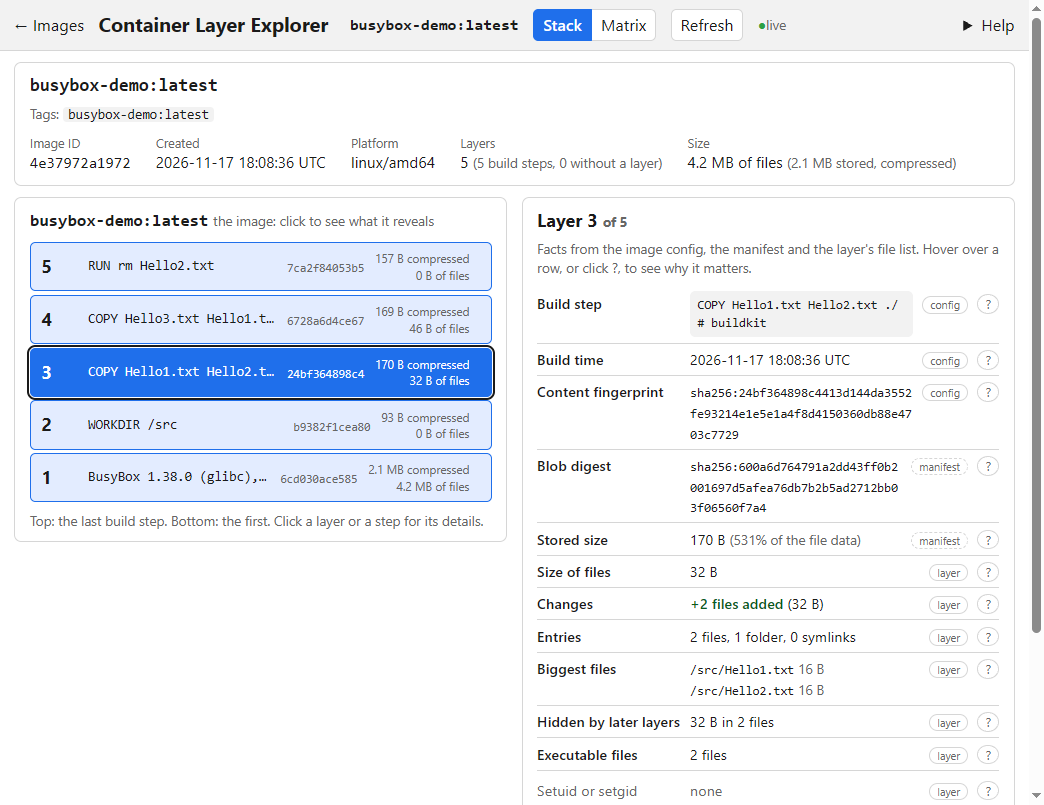
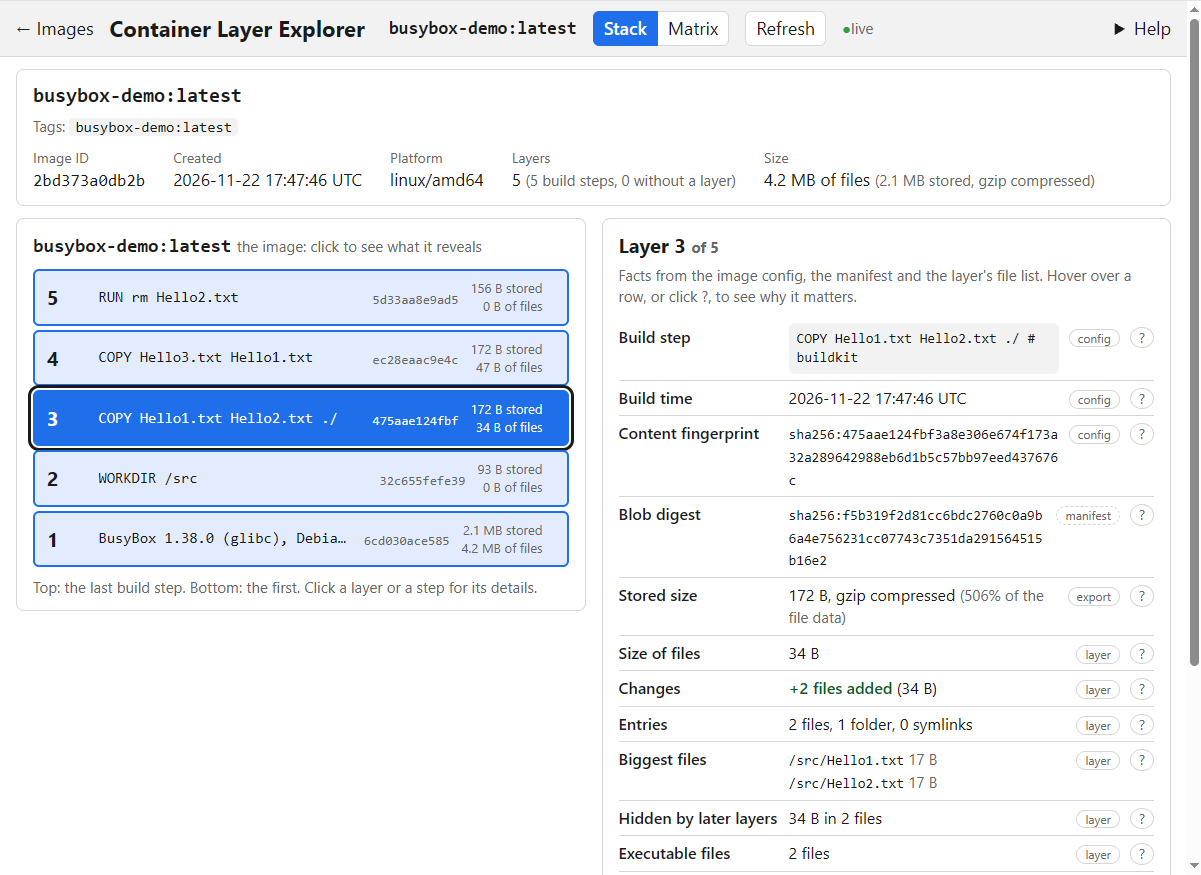
Updates and Refactorings

Changed region(s): [[0.0, 0.0, 1.0, 1.0]]

diff --git a/src/ContainerLayerExplorer/wwwroot/stack.js b/src/ContainerLayerExplorer/wwwroot/stack.js
@@ -76,7 +76,7 @@ function renderDetail() {
 
 function headerHtml(image, tags) {
   const { model } = image;
-  const compressed = model.layers.reduce((sum, l) => sum + l.compressedSize, 0);
+  const stored = model.layers.reduce((sum, l) => sum + l.storedSize, 0);
   const emptySteps = model.history.filter((s) => s.layerIndex === null).length;
   const platform = [model.os, model.architecture].filter(Boolean).join("/") || "not recorded";
   const tagList = (tags.length ? tags : [image.name]).map((t) => `<code class="tag">${esc(t)}</code>`).join(" ");
@@ -95,8 +95,8 @@ function headerHtml(image, tags) {
     fact("Platform", esc(platform)) +
     fact("Layers", `${model.layers.length}` +
       ` <span class="sub">(${model.history.length} build steps, ${emptySteps} without a layer)</span>`) +
-    fact("Size", `${fmtSize(model.totalSize)} of files <span class="sub">(${fmtSize(compressed)} stored, compressed)</span>`,
-      "The files in all layers added up, and the size of the layer blobs as stored. Docker's own size figure counts differently.") +
+    fact("Size", `${fmtSize(model.totalSize)} of files <span class="sub">(${fmtSize(stored)} stored, ${compressionText(model.layers)})</span>`,
+      "The files in all layers added up, and the size of the layer files in Docker's export of the image. Docker's own size figure counts differently.") +
     `</dl>`;
 }
 
@@ -130,7 +130,7 @@ function layerHtml(layer, step, prevSet) {
     `<code class="cmd">${esc(shortCmd(cmd)) || "<i>(not recorded)</i>"}</code>` +
     (isNew ? `<span class="badge new">new</span>` : "") +
     `<span class="lid"><code>${shortId(layer.diffId)}</code></span>` +
-    `<span class="sizes">${fmtSize(layer.compressedSize)} compressed<br>${fmtSize(layer.size)} of files</span>` +
+    `<span class="sizes">${fmtSize(layer.storedSize)} stored<br>${fmtSize(layer.size)} of files</span>` +
     `</div>`;
 }
 
@@ -228,14 +228,15 @@ function runtimeRevealRows(c) {
 
 /** The platform and the layers: platform, layer fingerprints and stored layers. */
 function layerRevealRows(model) {
-  const compressed = model.layers.reduce((sum, l) => sum + l.compressedSize, 0);
+  const stored = model.layers.reduce((sum, l) => sum + l.storedSize, 0);
   return [
     row("Platform", "config", "os, architecture", [model.os, model.architecture].filter(Boolean).map(esc).join("/"), "not recorded",
       "The platform the image is built for. It names the target, not the computer that built the image."),
     row("Layer fingerprints", "config", "rootfs.diff_ids", model.layers.length && `${model.layers.length} content hashes`, "no layers",
       "A hash of each layer's content. The same layer has the same fingerprint in every image that contains it."),
-    row("Stored layers", "manifest", "layers", model.layers.length && `${model.layers.length} layer blobs, ${fmtSize(compressed)}`, "no layers",
-      "What is stored, and what is sent over the network when the image is pushed or pulled. Usually gzip compressed."),
+    row("Stored layers", "export", "the layer files", model.layers.length &&
+      `${model.layers.length} layer blobs, ${fmtSize(stored)}, ${compressionText(model.layers)}`, "no layers",
+      "The layer files as Docker exported them. When they are gzip compressed, this is roughly what a push or a pull transfers. Some Docker setups export the layers uncompressed, and then the size is close to the file data."),
   ];
 }
 
@@ -259,8 +260,8 @@ function layerDetailHtml(model, index, prevSet) {
       "The hash of the layer's uncompressed content. The same layer has the same fingerprint in every image that contains it."),
     row("Blob digest", "manifest", "layers[].digest", layer.blobDigest && `<code>${esc(layer.blobDigest)}</code>`, "not recorded in this archive format",
       "The hash of the layer as stored and sent (usually gzip compressed). Registries and docker pull use this one."),
-    row("Stored size", "manifest", "layers[].size", storedSizeHtml(layer), "",
-      "What a push or pull of this layer transfers. The percentage compares it with the files' total size; tar headers make a tiny layer bigger than its files."),
+    row("Stored size", "export", "the layer file's size", storedSizeHtml(layer), "",
+      "The size of this layer's file in Docker's export of the image. When it is gzip compressed, this is roughly what a push or a pull transfers. The percentage compares it with the files' total size; tar headers make a tiny layer bigger than its files."),
     row("Size of files", "layer", "tar entries", `${fmtSize(layer.size)}`, "",
       "The files in this layer added up, uncompressed. Deleted files are only markers here: their data is in a lower layer."),
   ];
@@ -272,14 +273,21 @@ function layerDetailHtml(model, index, prevSet) {
     `<div class="reveal-rows">${rows.join("")}</div>`;
 }
 
-/** The stored (compressed) size, with how much of the file data it is when the layer has files. */
+/** The stored size and whether it is compressed, with how much of the file data it is when the layer has files. */
 function storedSizeHtml(layer) {
-  const stored = fmtSize(layer.compressedSize);
+  const stored = `${fmtSize(layer.storedSize)}, ${layer.storedGzip ? "gzip compressed" : "not compressed"}`;
   if (layer.size > 0) {
-    const ratio = `${Math.round((layer.compressedSize * 100) / layer.size)}% of the file data`;
+    const ratio = `${Math.round((layer.storedSize * 100) / layer.size)}% of the file data`;
     return `${stored} <span class="sub">(${ratio})</span>`;
   }
   return stored;
+}
+
+/** "gzip compressed", "not compressed" or "partly compressed", from what the export holds. */
+function compressionText(layers) {
+  const gzip = layers.filter((l) => l.storedGzip).length;
+  if (gzip === layers.length) return "gzip compressed";
+  return gzip === 0 ? "not compressed" : "partly compressed";
 }
 
 function layerFactRows(f) {
@@ -357,6 +365,7 @@ function octal(mode) {
 const SOURCES = {
   config: "the image config",
   manifest: "the image manifest",
+  export: "Docker's export of the image (the same as docker save)",
   layer: "the layer's file list (tar headers, not file contents)",
 };
 

diff --git a/src/ContainerLayerExplorer/wwwroot/explorer.html b/src/ContainerLayerExplorer/wwwroot/explorer.html
@@ -30,7 +30,7 @@
           <li><span class="c Modified">M</span> changed (whole file stored again)</li>
           <li><span class="c Deleted">D</span> deleted (hidden by a whiteout marker)</li>
           <li><span class="tick">&#10003;</span> in the Result column: the container gets this file</li>
-          <li><span class="badge new">new</span> after a rebuild, a layer that was not in the build before (layers from the build cache get no badge)</li>
+          <li><span class="badge new">new</span> after a rebuild, a layer whose content was not in the image shown before. A layer with the same content gets no badge, whether it came from the build cache or was built again. A reload clears the badges.</li>
         </ul>
         <p><a href="https://github.com/tndata/ContainerLayerExplorer" target="_blank" rel="noopener">Documentation and issues on GitHub</a></p>
       </div>

diff --git a/src/ContainerLayerExplorer/wwwroot/explorer.js b/src/ContainerLayerExplorer/wwwroot/explorer.js
@@ -412,8 +412,8 @@ function rowSeesCell(line, row, path, isDir) {
 function buildNote(layer, prevSet) {
   if (!prevSet) return "";
   return prevSet.has(layer.diffId)
-    ? "Same as in your previous build (docker build shows CACHED)."
-    : "NEW: not in your previous build.";
+    ? "Same content as in the image shown before."
+    : "NEW: this content was not in the image shown before.";
 }
 
 /** The steps without a layer (ENV, ARG, LABEL, CMD and so on) that come before the first layer. */

diff --git a/src/ContainerLayerExplorer.Core/Images/ImageModel.cs b/src/ContainerLayerExplorer.Core/Images/ImageModel.cs
@@ -47,19 +47,21 @@ public sealed record HealthCheck(
 public sealed record HistoryStep(string CreatedBy, DateTimeOffset? Created, bool EmptyLayer, int? LayerIndex);
 
 /// <param name="Size">Sum of the file sizes in the layer (uncompressed).</param>
-/// <param name="CompressedSize">Size of the layer blob as stored (usually gzip).</param>
+/// <param name="StoredSize">Size of the layer blob in Docker's export, compressed or not (see <paramref name="StoredGzip"/>).</param>
 /// <param name="BlobDigest">The digest of the stored blob (what the manifest lists), or null when the archive does not say.</param>
 /// <param name="Facts">Counts, sizes and permission facts for the layer.</param>
+/// <param name="StoredGzip">True when the blob in the export is gzip compressed; false for a plain tar.</param>
 public sealed record Layer(
     int Index,
     string DiffId,
     string BlobPath,
-    long CompressedSize,
+    long StoredSize,
     long Size,
     string? CreatedBy,
     IReadOnlyList<Change> Changes,
     string? BlobDigest = null,
-    LayerFacts? Facts = null);
+    LayerFacts? Facts = null,
+    bool StoredGzip = false);
 
 public enum ChangeKind { Added, Modified, Deleted }
 

diff --git a/src/ContainerLayerExplorer.Core/Images/ImageReader.cs b/src/ContainerLayerExplorer.Core/Images/ImageReader.cs
@@ -89,8 +89,10 @@ public static class ImageReader
             var changes = stack.Apply(i, entries);
             var size = entries.Where(e => e.Entry == EntryKind.File).Sum(e => e.Size);
             var createdBy = history.Find(h => h.LayerIndex == i)?.CreatedBy;
+            bool gzip;
+            using (var blob = files.OpenRequired(layerPaths[i])) gzip = LayerReader.IsGzip(blob);
             layers.Add(new Layer(i, i < diffIds.Count ? diffIds[i] : "", layerPaths[i],
-                files.Length(layerPaths[i]), size, createdBy, changes, BlobDigest(layerPaths[i])));
+                files.Length(layerPaths[i]), size, createdBy, changes, BlobDigest(layerPaths[i]), StoredGzip: gzip));
         }
         return (layers, truncated);
     }

diff --git a/src/ContainerLayerExplorer.Core/Images/LayerReader.cs b/src/ContainerLayerExplorer.Core/Images/LayerReader.cs
@@ -45,6 +45,13 @@ public static class LayerReader
         return null;
     }
 
+    /// <summary>True when the layer blob starts with the gzip magic bytes. The stream position is left unchanged.</summary>
+    public static bool IsGzip(Stream layer)
+    {
+        Span<byte> magic = stackalloc byte[2];
+        return PeekBytes(layer, magic) == 2 && magic[0] == 0x1f && magic[1] == 0x8b;
+    }
+
     /// <summary>"./etc/passwd", "etc/", "/x" all become "/etc/passwd", "/etc", "/x". The root itself gives null.</summary>
     public static string? NormalizePath(string name)
     {

diff --git a/tests/ContainerLayerExplorer.Tests/ImageReaderTests.cs b/tests/ContainerLayerExplorer.Tests/ImageReaderTests.cs
@@ -77,6 +77,17 @@ public class ImageReaderTests
         var model = image.Read();
 
         Assert.Equal(5, model.Layers[0].Size);
+        Assert.False(model.Layers[0].StoredGzip);
+    }
+
+    [Fact]
+    public void A_gzip_layer_is_marked_as_stored_compressed()
+    {
+        using var image = new TestImage().Layer("COPY a /", File("a.txt", "hello"));
+
+        var model = image.Read();
+
+        Assert.True(model.Layers[0].StoredGzip);
     }
 
     [Fact]

diff --git a/README.md b/README.md
@@ -3,7 +3,11 @@
 [![Build and test](https://github.com/tndata/ContainerLayerExplorer/actions/workflows/build-and-test.yml/badge.svg)](https://github.com/tndata/ContainerLayerExplorer/actions/workflows/build-and-test.yml)
 [![License: MIT](https://img.shields.io/badge/license-MIT-blue.svg)](LICENSE)
 
-Container Layer Explorer is a local web app that shows every layer of a Docker or OCI image and what each build step adds, changes or deletes. You see the layers as a matrix of file paths and as a stack, together with what the image config and manifest reveal. The view updates when you rebuild the image.
+Container Layer Explorer is a local web app that shows what each layer of a Docker or OCI image adds, changes or deletes, and which files a container gets in the end. You see the layers as a matrix of file paths and as a stack, together with what the image config and manifest reveal. The view updates when you rebuild the image.
+
+![The Matrix view of the sample image: one column per layer, one row per path, with added (A), changed (M) and deleted (D) cells and a Result column](docs/images/matrix.png)
+
+*The sample image in the Matrix view. `/src/Hello2.txt` is added in layer 3 and deleted in layer 5 (D), and its Result cell is empty: a container does not get the file, but its data is still stored in layer 3.*
 
 When I teach containers, I notice that developers use images every day, but the layered file system inside them is often a challenge to grasp. The same questions keep coming up:
 
@@ -13,10 +17,6 @@ When I teach containers, I notice that developers use images every day, but the 
 
 I built Container Layer Explorer to make that visible, so you get a clear mental model of how the layers are stacked on top of each other and merged into the one file system that a container sees. This is the idea behind a union file system. I also use it in my own training, for example in my course [Introduction to Containers and Kubernetes](https://tn-data.se/courses/introduction-to-containers-and-kubernetes/).
 
-The diagram below shows the general setup:
-
-![Overview: a container registry, docker pull into Docker Desktop on your computer, the container image read by Container Layer Explorer, and the result shown in the browser at localhost](docs/images/container-layer-explorer-overview.png)
-
 ## Requirements
 
 I have tested the tool in the following setup:
@@ -24,6 +24,7 @@ I have tested the tool in the following setup:
 - Windows with [Docker Desktop](https://www.docker.com/products/docker-desktop/), running.
 - Docker Desktop in Linux containers mode (the default).
 - The [.NET 10 SDK](https://dotnet.microsoft.com/download).
+- [Git](https://git-scm.com/), to get the source code.
 
 There are no binary releases. You build and run the tool from source.
 
@@ -41,77 +42,31 @@ I have not tested other setups, such as Linux, macOS or other container engines.
 
 2. When the terminal shows `Now listening on: http://localhost:5000`, open <http://localhost:5000> in your browser. Leave that terminal running. The tool stops when you press Ctrl+C or close the terminal.
 
-3. In another terminal, make an empty folder with a text file called `Hello.txt` (any text) and a `Dockerfile`:
+   Already have a tagged image in Docker? Find it on the start page and choose **Explore**. To try the sample image first, go on with step 3.
 
-   ```dockerfile
-   FROM scratch
-   COPY Hello.txt /
-   ```
-
-   This Dockerfile starts from `scratch`, the empty image, and copies `Hello.txt` into the root of the image. The result is an image with a single layer.
-
-4. Build it from that folder:
-
-   ```bash
-   docker build -t demo .
-   ```
-
-   Docker adds the default tag, so the image is called `demo:latest`.
-
-5. On the start page, find `demo:latest` and choose **Explore**. The Matrix view shows one layer column and its one file. Switch to **Stack** to see the same layer drawn as a stack.
-
-   ![The start page: Docker status and the list of local images, with demo:latest highlighted](docs/images/start-page.png)
-
-6. Keep the page open. Add a line to the Dockerfile:
-
-   ```dockerfile
-   FROM scratch
-   COPY Hello.txt /
-   COPY Hello.txt /Hello2.txt
-   ```
-
-   The new line copies the same `Hello.txt` again, this time as `/Hello2.txt`. That adds a second layer on top of the first one.
-
-   Then build again with the same command:
-
-   ```bash
-   docker build -t demo .
-   ```
-
-   The page updates by itself. The second layer gets a NEW badge, because its content was not in the image you had open. The first layer has the same content as before, so it gets no badge.
-
-## Try the sample
-
-The folder [samples/busybox-basics](samples/busybox-basics) holds a small image built on `busybox:1.38.0-glibc` that shows all three kinds of change: added, changed and deleted.
-
-1. With the tool running, open a terminal in the folder of this repository and build the sample. It makes an image called `busybox-demo:latest`:
+3. Open another terminal in the folder of this repository and build the sample. The folder [samples/busybox-basics](samples/busybox-basics) holds a small image built on `busybox:1.38.0-glibc` that shows all three kinds of change: added, changed and deleted. The command makes an image called `busybox-demo:latest`:
 
    ```bash
    docker build -t busybox-demo samples/busybox-basics
    ```
 
-2. On the start page, find `busybox-demo:latest` and choose **Explore**. The Matrix view shows the five layers as columns, BusyBox in layer 1. Look at the `/src` folder:
+4. On the start page, find `busybox-demo:latest` and choose **Explore**.
+
+   ![The start page: Docker status and the list of local images, with busybox-demo:latest highlighted](docs/images/start-page.png)
+
+5. The Matrix view shows the five layers as columns, BusyBox in layer 1. Look at the `/src` folder:
    - `Hello1.txt` is added in layer 3 (A) and changed in layer 4 (M). Click the M cell: the layer stores the whole new file, and the old version is still stored in layer 3.
-   - `Hello2.txt` is added in layer 3 and deleted in layer 5 (D). Click the D cell: layer 5 only holds a marker file, `.wh.Hello2.txt`, that hides it. Click **Show it** to see the file's content, still stored in layer 3.
+   - `Hello2.txt` is added in layer 3 and deleted in layer 5 (D). Click the D cell: what layer 5 stores for this file is a whiteout marker, `.wh.Hello2.txt`, that hides it. Click **Show it** to see the file's content, still stored in layer 3.
    - The Result cell of `Hello2.txt` is empty. A container started from this image does not get the file, but anyone with a copy of the image can still read it.
-3. Switch to **Stack** to see the same five layers drawn as a stack, BusyBox at the bottom, and what the image reveals. Click a layer for its details.
-4. Keep the page open. Add a line at the end of the `Dockerfile`, for example `COPY Hello3.txt Hello4.txt`, and run the same command again:
-
-   ```bash
-   docker build -t busybox-demo samples/busybox-basics
-   ```
-
-   The page updates by itself. The new layer gets a NEW badge. The five layers below it have the same content as before, so they get none.
+6. Switch to **Stack** to see the same five layers drawn as a stack, BusyBox at the bottom, and what the image reveals. Click a layer for its details.
 
 ## How it works
 
-Container Layer Explorer runs on your own computer, next to Docker Desktop, and works only with the images in your local Docker. The basic steps are:
+Container Layer Explorer runs on your own computer, next to Docker Desktop, and works only with the images in your local Docker. You get an image there by building it from a Dockerfile or by pulling it from a registry, such as Docker Hub. The diagram below shows the general setup:
 
-1. **Get an image into Docker.** First, you need a container image in Docker Desktop. You can either build one locally from a Dockerfile or pull one from a registry, such as Docker Hub.
-2. **Start Container Layer Explorer.** Run the tool (see [Quick start](#quick-start)). When the terminal shows `Now listening on`, open `http://localhost:5000` in your browser.
-3. **Open an image.** The start page lists the tagged images in your local Docker. Choose one, and the tool exports it from Docker through the Docker Engine API (the same export as `docker save`) and reads its layers, config and manifest.
-4. **Explore the layers.** See the image as a matrix of files and layers, or as a stack of layers.
-5. **Rebuild and watch it update.** The tool listens to Docker's image events, so when you build, tag or remove an image, the page updates by itself.
+![Overview: a container registry, docker pull into Docker Desktop on your computer, the container image read by Container Layer Explorer, and the result shown in the browser at localhost](docs/images/container-layer-explorer-overview.png)
+
+When you open an image, the tool exports it from Docker through the Docker Engine API (the same export as `docker save`) into a temporary folder, and reads its layers, config and manifest from that copy. It also listens to Docker's image events, so when you build, tag or remove an image, the page updates by itself.
 
 The tool changes nothing in Docker. It never starts a container, and it never pushes, pulls, deletes or changes an image. To read an image it does write a copy to your disk, see [Trust and responsibility](#trust-and-responsibility).
 
@@ -121,7 +76,7 @@ An image can be shown in two ways, and you switch between them with the **Stack 
 
 ### The Matrix view
 
-![The Matrix view of the sample image: one column per layer, one row per path, with added (A), changed (M) and deleted (D) cells and a Result column](docs/images/matrix.png)
+The screenshot at the top of this page shows the Matrix view of the sample image.
 
 - **Paths and layers.** One row per file or folder, one column per layer. Each cell shows if the layer added (A), changed (M) or deleted (D) that path. M means the layer wrote the path again; the contents are not compared.
 - **The result.** The Result column shows the final file system, which is what a container gets. A deleted file is only hidden: its data is still stored in the layer below, so the image does not get smaller.
@@ -133,13 +88,12 @@ An image can be shown in two ways, and you switch between them with the **Stack 
 
 ![The Stack view of the sample image: the image facts at the top, the five layers drawn as a stack on the left, and what the image reveals on the right](docs/images/stack.png)
 
-- **The image as a stack.** The Stack view draws the layers bottom to top, the first build step at the bottom. Each layer shows its build command, a short layer ID and two sizes:
-  - *compressed*: the size of the layer as it is stored in Docker's export of the image, usually gzip-compressed. This is roughly what a push or a pull transfers.
-  - *of files*: the sizes of the files in the layer's file list added up, uncompressed. A deleted file counts as 0 B here, because the layer only holds its marker.
-
-  Steps that make no layer, such as `ENV` and `LABEL`, are thin 0 B rows. Above the stack are the image's tags, image ID, creation time, platform, the number of layers and build steps, and the same two sizes for the whole image (*of files* and *stored, compressed*). The files figure adds up every layer, including files that later layers change or delete, so it differs from the size on the start page, which is Docker's own figure.
+- **The image as a stack.** The layers are drawn bottom to top, the first build step at the bottom. Each layer shows its build command, a short layer ID and two sizes: *stored*, the size of the layer file in Docker's export of the image, and *of files*, the files in the layer added up, uncompressed. The layer details say whether the stored file is gzip compressed; when it is, the stored size is roughly what a push or a pull transfers. Steps that make no layer, such as `ENV` and `LABEL`, are thin 0 B rows.
+- **The image facts.** Above the stack are the tags, image ID, creation time, platform, the number of layers and build steps, and the same two sizes for the whole image. The files figure counts every layer, including files that later layers change or delete, so it differs from Docker's own size on the start page.
 - **What an image reveals.** With the image selected, the right side lists what anyone with a copy of the image can read from its config and manifest: creation time, build steps, author, labels, environment variables, user, ports, volumes, health check and more. Each row says where the fact comes from, and an empty row says what is missing.
 - **Layer details.** Click a layer in the stack for its details: the build step and its time, both fingerprints (content and stored blob), the sizes and compression, what it adds, changes and deletes, its biggest files, how much of its data later layers hide, and permission facts such as setuid programs and world-writable folders. A step without a layer can be clicked too.
+
+  ![Layer 3 of the sample image selected in the Stack view, with its details on the right: build step, fingerprints, sizes, changes and its biggest files](docs/images/stack-layer.png)
 
 ### In both views
 
@@ -158,7 +112,9 @@ dotnet run --project src/ContainerLayerExplorer --urls http://localhost:5050
 
 ### The page cannot reach Docker
 
-Start Docker Desktop and wait until it is running. Then run `docker version` in a terminal. Its output must have a `Server` section. If it only shows `Client`, the Docker engine is not running, and the tool cannot reach it either. The page updates by itself when Docker is back.
+Start Docker Desktop and wait until it is running. Then run `docker version` in a terminal. Its output must have a `Server` section. If it shows only `Client`, the command could not reach the Docker engine, and the error under it says why. Most often, Docker Desktop is not running yet.
+
+If `docker version` shows a `Server` section but the page still cannot reach Docker, look at the address in the page's message. The tool uses the `DOCKER_HOST` environment variable when it is set, and otherwise Docker Desktop's own connection. It does not follow `docker context`, so the two can point to different engines. The page updates by itself when Docker is back.
 
 ### An image is missing from the start page
 
@@ -186,7 +142,6 @@ You can change both values under `Limits` in `appsettings.json`. Start the tool 
 - It can show the contents of files inside an image, and those files can include secrets.
 - It writes to your disk. To open an image, it exports it from Docker into a folder under your temp folder (on Windows, `%TEMP%\ContainerLayerExplorer`) and keeps the last six images there while it runs. That copy holds everything in the image, so it can contain sensitive files. The folder is removed when the tool shuts down normally. If the tool was stopped abruptly, the folder stays until a later start, which removes unused folders that are more than a day old.
 - It listens on `http://localhost:5000` by default, rejects requests with any other host name, and has no sign-in. Do not expose it on a network.
-- There are no binary releases. You build it from source.
 
 See [SECURITY.md](SECURITY.md) for how to report a security problem.
 
@@ -212,7 +167,13 @@ I have only tested it with Docker Desktop, see [Requirements](#requirements). Po
 
 ### Can I look at an image from Docker Hub or another registry?
 
-Yes, but not directly. The tool can only show the images in your local container engine (Docker Desktop), and it never connects to a registry itself. To look at an image from Docker Hub or another registry, first pull it into Docker Desktop, for example with `docker pull`. It then shows up on the start page.
+Yes, but not directly. The tool can only show the images in your local container engine (Docker Desktop), and it never connects to a registry itself. To look at an image from Docker Hub or another registry, first pull it into Docker Desktop, for example:
+
+```bash
+docker pull busybox:1.38.0-glibc
+```
+
+It then shows up on the start page.
 
 ### Is it free?
 

diff --git a/.github/ISSUE_TEMPLATE/bug_report.md b/.github/ISSUE_TEMPLATE/bug_report.md
@@ -16,7 +16,7 @@ A short description of the problem, and what you expected instead.
 3. What did you see?
 
 **Your setup**
-- Docker Desktop version:
+- Docker engine and version (for example Docker Desktop 4.x, `docker version`):
 - Operating system:
 - Browser:
 - .NET SDK version (`dotnet --version`):
